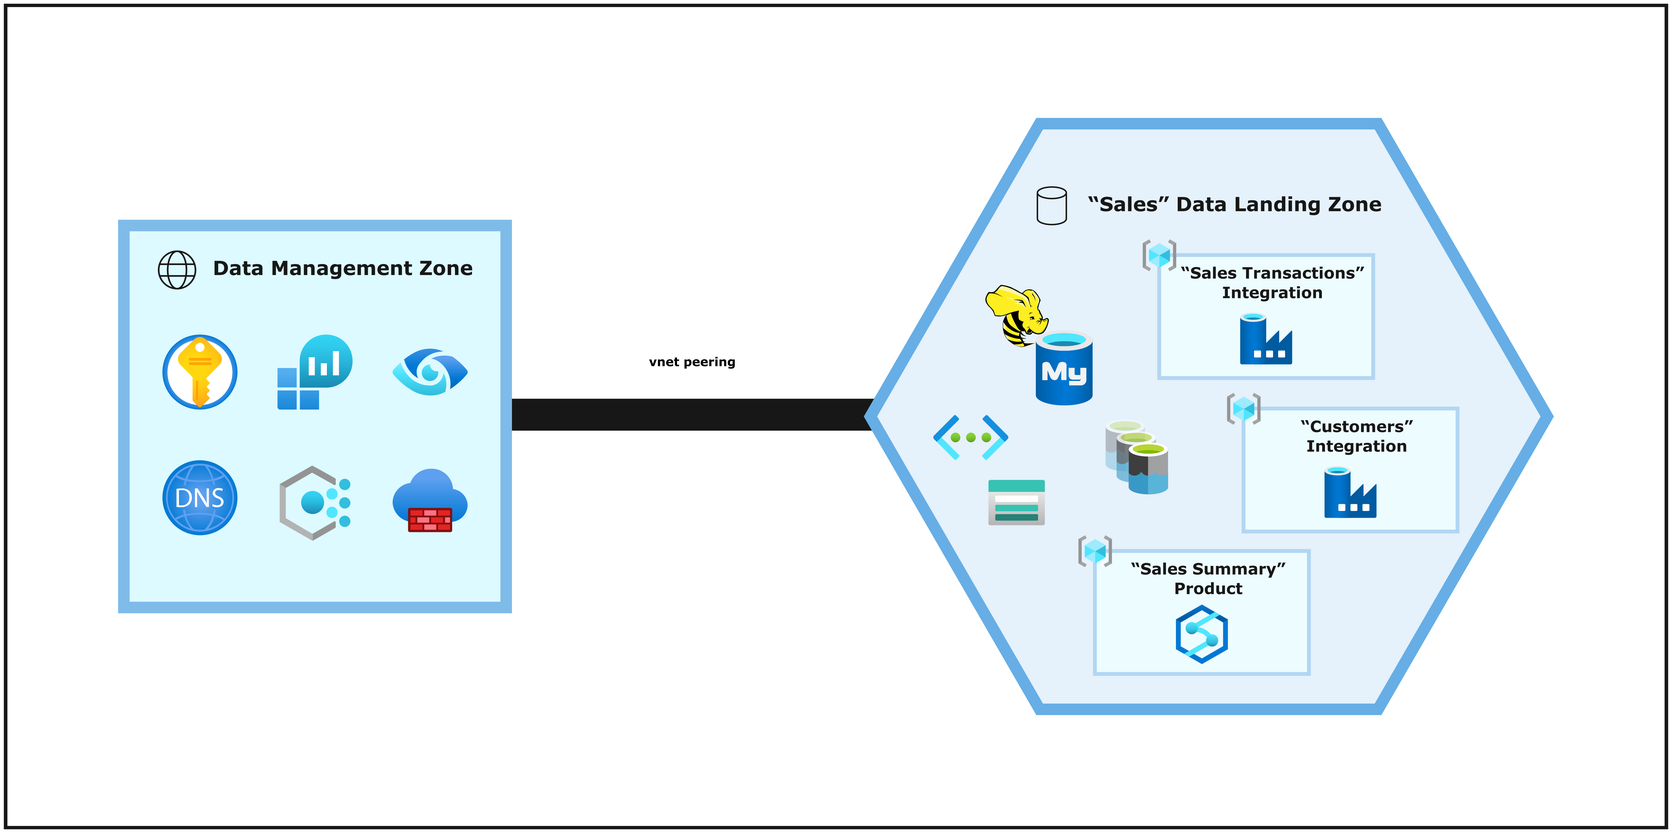
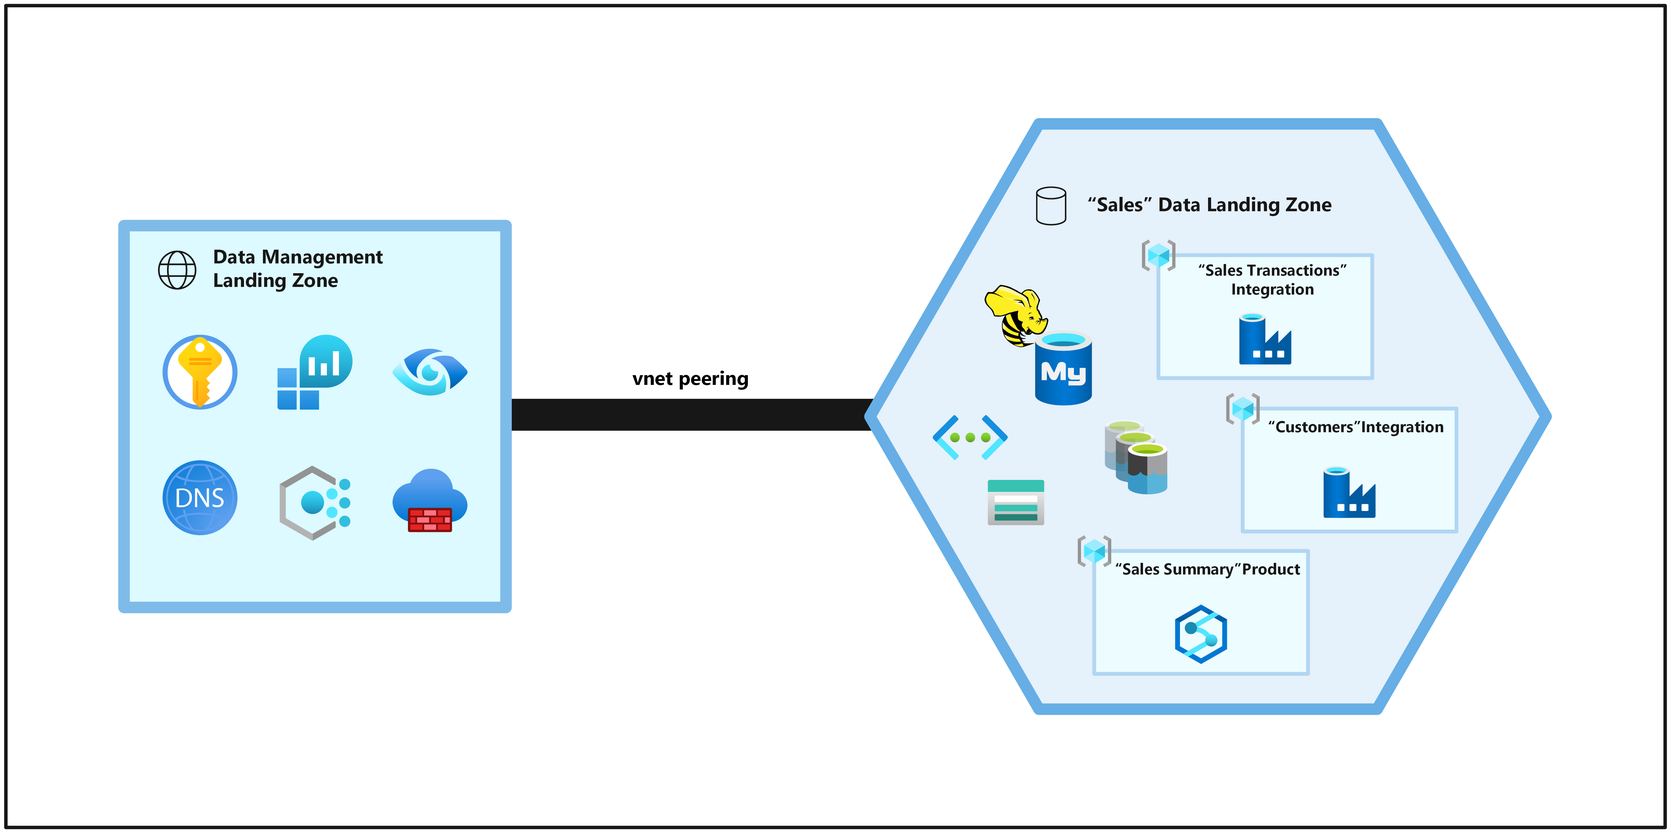
Rename DMZ to DMLZ

diff --git a/docs/scenarios/data-management/architectures/connect-to-environments-privately.md b/docs/scenarios/data-management/architectures/connect-to-environments-privately.md
@@ -16,15 +16,15 @@ The reference architecture is secure by design. It uses a multilayered security 
 
 Network features such as private endpoints and disabled public network access can greatly reduce the attack surface of a data platform of an organization. Even with these features enabled, though, you need to take extra precautions to successfully connect to services such as Azure storage accounts, Azure Synapse workspaces, Azure Purview, or Azure Machine Learning from the public internet.
 
-This document describes the most common options for connecting to services inside a data management zone or data landing zone in a simple and secure way.
+This document describes the most common options for connecting to services inside a data management landing zone or data landing zone in a simple and secure way.
 
 ## About Azure Bastion host and jumpboxes
 
-The most simple solution is to host a jumpbox on the virtual network of the data management zone or data landing zone to connect to the data services through private endpoints. A jumpbox is an Azure virtual machine (VM) that's running Linux or Windows and to which users can connect via the Remote Desktop Protocol (RDP) or Secure Shell (SSH).
+The most simple solution is to host a jumpbox on the virtual network of the data management landing zone or data landing zone to connect to the data services through private endpoints. A jumpbox is an Azure virtual machine (VM) that's running Linux or Windows and to which users can connect via the Remote Desktop Protocol (RDP) or Secure Shell (SSH).
 
 Previously, jumpbox VMs had to be hosted with public IPs to enable RDP and SSH sessions from the public internet. Network security groups (NSGs) could be used to further lock down traffic to allow connections from only a limited set of public IPs. However, this approach meant that a public IP had to be exposed from the Azure environment, which increased the attack surface of an organization. Alternatively, customers could have used DNAT rules in their Azure Firewall to expose the SSH or RDP port of a VM to the public internet, which can lead to similar security risks.
 
-Today, instead of exposing a VM publicly, you can rely on Azure Bastion as a more secure alternative. Azure Bastion provides a secure remote connection from the Azure portal to Azure VMs over Transport Layer Security (TLS). Azure Bastion should be set up on a dedicated subnet (subnet with name `AzureBastionSubnet`) in the Azure data landing zone or Azure data management zone. You can then use it to connect to any VM on that virtual network or a peered virtual network directly from the Azure portal. No extra clients or agents need to be installed on any VM. You can again use NSGs to allow RDP and SSH from Azure Bastion only.
+Today, instead of exposing a VM publicly, you can rely on Azure Bastion as a more secure alternative. Azure Bastion provides a secure remote connection from the Azure portal to Azure VMs over Transport Layer Security (TLS). Azure Bastion should be set up on a dedicated subnet (subnet with name `AzureBastionSubnet`) in the Azure data landing zone or Azure data management landing zone. You can then use it to connect to any VM on that virtual network or a peered virtual network directly from the Azure portal. No extra clients or agents need to be installed on any VM. You can again use NSGs to allow RDP and SSH from Azure Bastion only.
 
 :::image type="content" source="../images/bastion-network-architecture.png" alt-text="Diagram of Azure Bastion network architecture." lightbox="../images/bastion-network-architecture.png" :::
 
@@ -40,7 +40,7 @@ For more information, see [What is Azure Bastion?](/azure/bastion/bastion-overvi
 
 ### Deployment
 
-To simplify the process for users, there is a Bicep/ARM template that can help you quickly create this setup inside your data management zone or data landing zone. Use the template to create the following setup inside your subscription:
+To simplify the process for users, there is a Bicep/ARM template that can help you quickly create this setup inside your data management landing zone or data landing zone. Use the template to create the following setup inside your subscription:
 
 :::image type="content" source="../images/bastion-architecture.png" alt-text="Diagram of Azure Bastion architecture." lightbox="../images/bastion-architecture.png" :::
 
@@ -48,7 +48,7 @@ To deploy the Bastion host yourself, select the **Deploy to Azure** button:
 
 [![Deploy to Azure](https://aka.ms/deploytoazurebutton)](https://portal.azure.com/#blade/Microsoft_Azure_CreateUIDef/CustomDeploymentBlade/uri/https%3A%2F%2Fraw.githubusercontent.com%2FAzure%2Fdata-management-zone%2Fmain%2Fdocs%2Freference%2Fbastionhost%2Fmain.json/uiFormDefinitionUri/https%3A%2F%2Fraw.githubusercontent.com%2FAzure%2Fdata-management-zone%2Fmain%2Fdocs%2Freference%2Fbastionhost%2Fportal.json)
 
-When you deploy Azure Bastion and a jumpbox through the **Deploy to Azure** button, you can provide the same prefix and environment that you use in your data landing zone or data management zone. This deployment has no conflicts, and it acts as an add-on to your data landing zone or data management zone. You can manually add other VMs to allow more users to work inside the environment.
+When you deploy Azure Bastion and a jumpbox through the **Deploy to Azure** button, you can provide the same prefix and environment that you use in your data landing zone or data management landing zone. This deployment has no conflicts, and it acts as an add-on to your data landing zone or data management landing zone. You can manually add other VMs to allow more users to work inside the environment.
 
 ### Connect to the VM
 
@@ -84,7 +84,7 @@ To connect to the VM by using Azure Bastion, do the following:
 
    :::image type="content" source="../images/new-sql-script.png" alt-text="Screenshot of the Synapse Analytics pane for connect to a new SQL script." lightbox="../images/new-sql-script.png" :::
 
-If all the virtual networks have been peered with each other, only a single jumpbox in one data landing zone is required to access services across all data landing zones and data management zones.
+If all the virtual networks have been peered with each other, only a single jumpbox in one data landing zone is required to access services across all data landing zones and data management landing zones.
 
 To learn why we recommend this network setup, see [Network architecture considerations](../eslz-network-considerations.md). We recommend a maximum of one Azure Bastion service per data landing zone. If more users require access to the environment, you can add extra Azure VMs to the data landing zone.
 

diff --git a/docs/scenarios/data-management/architectures/reference-architecture-data-mesh.md b/docs/scenarios/data-management/architectures/reference-architecture-data-mesh.md
@@ -49,7 +49,7 @@ Data management and analytics scenario offers enterprises a strategic design pat
 
 At the highest level, data management and analytics scenario uses a data management capability, which is enabled through the data management landing zone. This zone is responsible for the federated data governance of an organization of the (self-service) platform, as well as the data domains that drive business value through data products. The benefit of this approach is that it abstracts away all technical complexity, while adhering to the same standards. It ensures that there is no proliferation of technology. It also allows enterprises to start modular, with a small footprint, and then grow over time.
 
-The data management zone, as you can see in the following diagram, surrounds all data domains. It glues all domains together and provides the oversight that Woodgrove Bank is looking for.
+The data management landing zone, as you can see in the following diagram, surrounds all data domains. It glues all domains together and provides the oversight that Woodgrove Bank is looking for.
 
 :::image type="content" source="../images/data-mesh-plane.png" alt-text="Diagram showing how data mesh intelligently distributes data products between data domains." lightbox="../images/data-mesh-plane.png":::
 
@@ -99,15 +99,15 @@ You can use managed identities to ensure that a least privilege access model is 
 
 Data management and analytics scenario is designed with data mesh in mind. Data management and analytics scenario provides a proven approach by which organizations can share data across many data domains. Data management and analytics scenario allows domains to have autonomy to make choices, and at the same time it governs the architecture by ring-fencing it with data management services.
 
-A consideration to keep in mind, when you're implementing data mesh, is how to logically group and organize your domains. This requires an enterprise view and is likely also a cultural shift for your organization. The shift requires you to federate data ownership among data domains and owners who are accountable for providing their data as products. It also requires teams to conform to centralized capabilities that are offered by the data management zone. This new approach might require individual teams to give up their current mandates, which is likely to generate resistance. You might have to make certain political choices and strike a balance between centralized and decentralized approaches.
+A consideration to keep in mind, when you're implementing data mesh, is how to logically group and organize your domains. This requires an enterprise view and is likely also a cultural shift for your organization. The shift requires you to federate data ownership among data domains and owners who are accountable for providing their data as products. It also requires teams to conform to centralized capabilities that are offered by the data management landing zone. This new approach might require individual teams to give up their current mandates, which is likely to generate resistance. You might have to make certain political choices and strike a balance between centralized and decentralized approaches.
 
-You can scale a data mesh architecture by adding more landing zones to the architecture for individual domains. These landing zones use virtual network peering to connect to the data management zone and all other landing zones. This pattern allows you to share datasets and resources across zones. And by splitting into separate zones, you can spread workloads across Azure subscriptions and resources. This approach allows you to implement the data mesh organically.
+You can scale a data mesh architecture by adding more landing zones to the architecture for individual domains. These landing zones use virtual network peering to connect to the data management landing zone and all other landing zones. This pattern allows you to share datasets and resources across zones. And by splitting into separate zones, you can spread workloads across Azure subscriptions and resources. This approach allows you to implement the data mesh organically.
 
 ## Learn more
 
 Microsoft resources:
 
-- [Data management zone template](https://github.com/Azure/data-management-zone)
+- [Data management landing zone template](https://github.com/Azure/data-management-zone)
 - [Data landing zone template](https://github.com/Azure/data-landing-zone)
 
 Article by data mesh founder Zhamak Dehghani:

diff --git a/docs/scenarios/data-management/eslz-network-considerations.md b/docs/scenarios/data-management/eslz-network-considerations.md
@@ -16,9 +16,9 @@ The Cloud Adoption Framework data management and analytics promise the possibili
 
 Based on the current capabilities of Azure networking services, it's recommended to rely on a meshed network architecture. Set up VNet peering between:
 
-1. The connectivity hub and data management zone,
+1. The connectivity hub and data management landing zone,
 2. The connectivity hub and each data landing zone,
-3. The data management zone and each data landing zone
+3. The data management landing zone and each data landing zone
 4. Each data landing zone.
 
 :::image type="content" source="./images/network-options-network-mesh.png" alt-text="Network architecture":::
@@ -144,7 +144,7 @@ There are many benefits that come with this network architecture design. However
 
 ## Meshed network architecture (recommended)
 
-The recommended design proposes the use of a network mesh, which means adding VNet peerings between all data landing zone VNets and between the data management zone and each data landing zone in addition to the existing hub and spoke network design that most organizations have setup inside their tenant. For the scenario mentioned in the introduction, data loaded from storage account A would first transition a VNet peering connection (2) that is set up between the two data landing zone VNets before it would be loaded and processed by virtual machine B ((3) and (4)). Lastly, the data can be stored on storage account B by sending the data through the local private endpoint (5). With this option, the data does not pass the connectivity hub and stays within the data platform consisting of a data management zone and one or multiple data landing zones.
+The recommended design proposes the use of a network mesh, which means adding VNet peerings between all data landing zone VNets and between the data management landing zone and each data landing zone in addition to the existing hub and spoke network design that most organizations have setup inside their tenant. For the scenario mentioned in the introduction, data loaded from storage account A would first transition a VNet peering connection (2) that is set up between the two data landing zone VNets before it would be loaded and processed by virtual machine B ((3) and (4)). Lastly, the data can be stored on storage account B by sending the data through the local private endpoint (5). With this option, the data does not pass the connectivity hub and stays within the data platform consisting of a data management landing zone and one or multiple data landing zones.
 
 :::image type="content" source="./images/network-options-meshed-network-architecture.png" alt-text="Meshed network architecture":::
 

diff --git a/docs/scenarios/data-management/architectures/reference-architecture-relecloud.md b/docs/scenarios/data-management/architectures/reference-architecture-relecloud.md
@@ -30,11 +30,11 @@ However, analysts in the billing group have different skills than the analysts i
 
 Relecloud will scale their analytics platform by adding a new landing zone for the billing group. This will provide a virtual workspace for the billing group to implement the analytics solutions that'll meet their business needs. By having the landing zone separate from the organization's other resources, the billing group can implement its own access policies and account for the costs of its services.
 
-### Data management zone
+### Data management landing zone
 
-A key concept for every data management and analytics scenario implementation is having one data management zone. This subscription contains resources that'll be shared across all landing zones. This includes shared networking components like a firewall or private DNS zones. It also includes resources for data and cloud governance like Azure Policy and Azure Purview.
+A key concept for every data management and analytics scenario implementation is having one data management landing zone. This subscription contains resources that'll be shared across all landing zones. This includes shared networking components like a firewall or private DNS zones. It also includes resources for data and cloud governance like Azure Policy and Azure Purview.
 
-Relecloud created a data management zone when the solution was deployed for the operations group. When the billing group joins the platform, they'll use the same data management zone. This will allow them to share common resources with the operations group.
+Relecloud created a data management landing zone when the solution was deployed for the operations group. When the billing group joins the platform, they'll use the same data management landing zone. This will allow them to share common resources with the operations group.
 
 ### Operations data landing zone
 
@@ -58,7 +58,7 @@ The billing group has been using an on-premises system to power its analytics. H
 
 As discussed above, the billing group won't share a landing zone with the operations group. Instead, they'll be given their own landing zone in which they'll have the freedom to build the platform that best suits their needs.
 
-The new landing zone will be connected to the data management zone and all other data landing zones with virtual network peering. This will enable data to be shared securely through the Azure internal network.
+The new landing zone will be connected to the data management landing zone and all other data landing zones with virtual network peering. This will enable data to be shared securely through the Azure internal network.
 
 #### Billing data integrations
 

diff --git a/docs/scenarios/data-management/architectures/reference-architecture-adatum.md b/docs/scenarios/data-management/architectures/reference-architecture-adatum.md
@@ -32,11 +32,11 @@ The Adatum corporate sales group uses traditional ERP and CRM systems to process
 
 ## Architectural solution
 
-In this reference architecture, we will deploy a data management zone, which is needed for all ESA implementations, and a single data landing zone, which can be used by the corporate sales department.
+In this reference architecture, we will deploy a data management landing zone, which is needed for all ESA implementations, and a single data landing zone, which can be used by the corporate sales department.
 
-### Data management zone
+### Data management landing zone
 
-A critical concept for every data management and analytics scenario is having one data management zone. This subscription contains resources that will be shared across all of the landing zones. This includes shared networking components like a firewall and private DNS zones. It also includes resources for data and cloud governance, such as Azure Policy and Azure Purview.
+A critical concept for every data management and analytics scenario is having one data management landing zone. This subscription contains resources that will be shared across all of the landing zones. This includes shared networking components like a firewall and private DNS zones. It also includes resources for data and cloud governance, such as Azure Policy and Azure Purview.
 
 ### Data integrations
 
@@ -74,7 +74,7 @@ In this example, the corporate sales team is the first to move to the new data m
 
 ## How to evolve in the future
 
-Scaling is accomplished by adding more landing zones to the architecture. These landing zones will use VNet peering to connect to the data management zone and all of the other landing zones. This mesh pattern allows datasets and resources to be shared across zones. By splitting into different zones, the workloads are spread across Azure subscriptions and resources. This allows enterprises to avoid reaching the limits of the Azure services and continue to grow their data estates.
+Scaling is accomplished by adding more landing zones to the architecture. These landing zones will use VNet peering to connect to the data management landing zone and all of the other landing zones. This mesh pattern allows datasets and resources to be shared across zones. By splitting into different zones, the workloads are spread across Azure subscriptions and resources. This allows enterprises to avoid reaching the limits of the Azure services and continue to grow their data estates.
 
 ## Deployment guidelines
 

diff --git a/docs/scenarios/data-management/eslz-identity-and-access-management.md b/docs/scenarios/data-management/eslz-identity-and-access-management.md
@@ -42,7 +42,7 @@ For automation purposes of deploying data landing zones, you need these roles:
         [Private DNS Zone Contributor](/azure/role-based-access-control/built-in-roles#private-dns-zone-contributor)
     :::column-end:::
     :::column span="3":::
-        Deploy all private DNS zones for all data services into a single subscription and resource group. The service principal needs to be `Private DNS Zone Contributor` on the global DNS resource group that was created during the data management zone deployment. This role is required to deploy A-records for the private endpoints.
+        Deploy all private DNS zones for all data services into a single subscription and resource group. The service principal needs to be `Private DNS Zone Contributor` on the global DNS resource group that was created during the data management landing zone deployment. This role is required to deploy A-records for the private endpoints.
     :::column-end:::
     :::column span="2":::
         (Resource group scope) `/subscriptions/{{dataManagement}subscriptionId}/resourceGroups/{resourceGroupName}`
@@ -96,7 +96,7 @@ The following role assignments are required for deploying a data integration and
         [Private DNS Zone Contributor](/azure/role-based-access-control/built-in-roles#private-dns-zone-contributor)
     :::column-end:::
     :::column span="3":::
-        Deploy all private DNS zones for all data services into a single subscription and resource group. The service principal needs to be `Private DNS Zone Contributor` on the global DNS resource group that was created during the data management zone deployment. This role is required to deploy A-records for the respective private endpoints.
+        Deploy all private DNS zones for all data services into a single subscription and resource group. The service principal needs to be `Private DNS Zone Contributor` on the global DNS resource group that was created during the data management landing zone deployment. This role is required to deploy A-records for the respective private endpoints.
     :::column-end:::
     :::column span="2":::
         (Resource group scope) `/subscriptions/{subscriptionId}/resourceGroups/{resourceGroupName}`

diff --git a/docs/scenarios/data-management/architectures/deployment-templates.md b/docs/scenarios/data-management/architectures/deployment-templates.md
@@ -31,12 +31,12 @@ The templates can change over time because of new Azure services and requirement
 
 We have provided links to the official cost calculator, where users can make changes depending on the expected amount of data and data throughput. All cost calculations specify a *base cost* of data management and analytics for Cloud Adoption Framework for Azure. Base cost can be defined as the cost that occurs if no data workloads run inside the respective subscriptions.
 
-### Data management zone costs
+### Data management landing zone costs
 
 In a production scenario, we recommend that you rely on the Azure Firewall and private DNS zones that are hosted in the connectivity hub of [azure landing zones](https://github.com/Azure/Enterprise-Scale). In minimal viable products, you can rely on the Azure Firewall and private DNS zones that are bundled with Cloud Adoption Framework data management and analytics. Therefore, we provide the following two different cost calculations:
 
-- [Calculation 1: Pricing calculator - data management zone without Azure Firewall and private DNS zones](https://azure.com/e/ebb7508a6d78487b9a1583878d0948cc)
-- [Calculation 2: Pricing calculator - data management zone with Azure Firewall and private DNS zones](https://azure.com/e/658478643d4b46fdbf8b1972c4b0704b)
+- [Calculation 1: Pricing calculator - data management landing zone without Azure Firewall and private DNS zones](https://azure.com/e/ebb7508a6d78487b9a1583878d0948cc)
+- [Calculation 2: Pricing calculator - data management landing zone with Azure Firewall and private DNS zones](https://azure.com/e/658478643d4b46fdbf8b1972c4b0704b)
 
 Keep in mind that the following services are not listed in the overview, because they are either not available in the official pricing calculator or the pricing calculator does not allow you to set the compute hours to 0:
 

diff --git a/docs/scenarios/data-management/architectures/reference-architecture-lamna.md b/docs/scenarios/data-management/architectures/reference-architecture-lamna.md
@@ -28,9 +28,9 @@ A critical concern for Lamna is the security of the patient data. As a healthcar
 
 Lamna will implement data management and analytics scenario as their solution for a cloud-based analytics platform. They will rely on multiple landing zones both for increased scalability and for clear separation of sensitive datasets.
 
-### Data management zone
+### Data management landing zone
 
-A critical concept for every data management and analytics scenario implementation is having one data management zone. This subscription contains resources that will be shared across all of the landing zones. This includes shared networking components, like a firewall and private DNS zones. It also includes resources for data and cloud governance, such as Azure Policy and Azure Purview.
+A critical concept for every data management and analytics scenario implementation is having one data management landing zone. This subscription contains resources that will be shared across all of the landing zones. This includes shared networking components, like a firewall and private DNS zones. It also includes resources for data and cloud governance, such as Azure Policy and Azure Purview.
 
 ### Patient data landing zone
 
